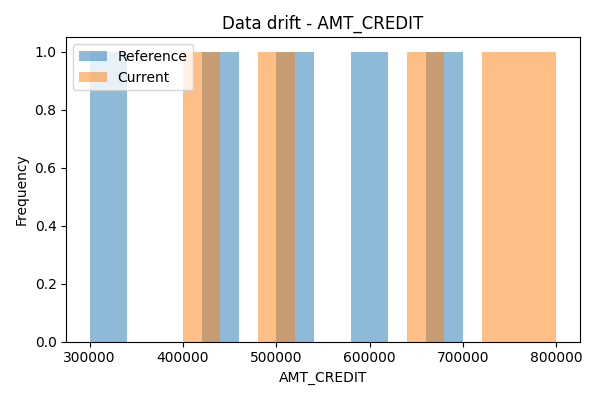
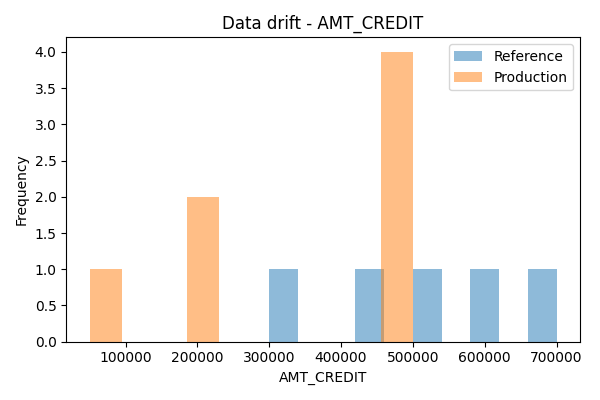
Finalize step 2 documentation and drift monitoring

diff --git a/src/monitoring/analyze_logs.py b/src/monitoring/analyze_logs.py
@@ -5,54 +5,76 @@ import pandas as pd
 import matplotlib.pyplot as plt
 
 BASE_DIR = Path(__file__).resolve().parents[2]
-
 LOG_FILE = BASE_DIR / "logs" / "predictions.jsonl"
 REPORT_DIR = BASE_DIR / "reports"
 
 REPORT_DIR.mkdir(exist_ok=True)
 
-# Lecture des logs JSONL
 logs = []
 
 with open(LOG_FILE, "r", encoding="utf-8") as f:
     for line in f:
         logs.append(json.loads(line))
 
-df = pd.DataFrame(logs)
+df_raw = pd.DataFrame(logs)
+
+# Compatible ancien format + nouveau format structuré
+if "output" in df_raw.columns:
+    df = pd.DataFrame({
+        "timestamp": df_raw["timestamp"],
+        "source": df_raw.get("source", "api"),
+        "model_name": df_raw.get("model_name", "unknown"),
+        "model_version": df_raw.get("model_version", "unknown"),
+        "status": df_raw.get("status", "unknown"),
+        "latency_ms": df_raw.get("latency_ms", None),
+        "probability": df_raw["output"].apply(lambda x: x["probability"]),
+        "prediction": df_raw["output"].apply(lambda x: x["prediction"]),
+        "threshold": df_raw["output"].apply(lambda x: x["threshold"]),
+    })
+else:
+    df = df_raw.copy()
+
+df["timestamp"] = pd.to_datetime(df["timestamp"])
+df["probability"] = df["probability"].astype(float)
+df["prediction"] = df["prediction"].astype(int)
 
 print("Nombre de prédictions :", len(df))
-
-# Extraire les probabilités
-df["probability"] = df["probability"].astype(float)
-
-# Statistiques
 print(df["probability"].describe())
 
-# Taux de refus
 refusal_rate = df["prediction"].mean()
-
 print(f"Taux de refus : {refusal_rate:.2%}")
 
-# Histogramme des probabilités
+if "latency_ms" in df.columns and df["latency_ms"].notna().any():
+    print("Latence moyenne :", round(df["latency_ms"].mean(), 2), "ms")
+
+# Distribution des probabilités
 plt.figure(figsize=(8, 5))
-
 plt.hist(df["probability"], bins=10)
-
 plt.title("Distribution des probabilités de défaut")
 plt.xlabel("Probabilité")
 plt.ylabel("Nombre de prédictions")
-
+plt.tight_layout()
 plt.savefig(REPORT_DIR / "probability_distribution.png")
+plt.close()
 
-print("Rapport généré dans reports/")
+# Evolution temporelle
+plt.figure(figsize=(8, 5))
+df_sorted = df.sort_values("timestamp")
+plt.plot(df_sorted["timestamp"], df_sorted["probability"], marker="o")
+plt.title("Evolution des scores dans le temps")
+plt.xlabel("Timestamp")
+plt.ylabel("Probabilité")
+plt.xticks(rotation=45)
+plt.tight_layout()
+plt.savefig(REPORT_DIR / "score_over_time.png")
+plt.close()
 
 # Détection simple d'anomalies
-
-high_risk = df[df["probability"] > 0.95]
-
-if len(high_risk) > 0:
-    print("\nALERTE : prédictions à très haut risque détectées")
-    print(high_risk[["probability", "prediction"]])
-
 if refusal_rate > 0.8:
     print("\nALERTE : taux de refus très élevé")
+
+if "latency_ms" in df.columns and df["latency_ms"].notna().any():
+    if df["latency_ms"].mean() > 1000:
+        print("\nALERTE : latence moyenne élevée")
+
+print("Rapports générés dans reports/")

diff --git a/src/monitoring/data_drift.py b/src/monitoring/data_drift.py
@@ -1,25 +1,38 @@
-import pandas as pd
-import matplotlib.pyplot as plt
+import json
 from pathlib import Path
 
-REPORT_DIR = Path("reports")
+import pandas as pd
+import matplotlib.pyplot as plt
+
+BASE_DIR = Path(__file__).resolve().parents[2]
+LOG_FILE = BASE_DIR / "logs" / "predictions.jsonl"
+REPORT_DIR = BASE_DIR / "reports"
 REPORT_DIR.mkdir(exist_ok=True)
 
-# Exemple : comparaison entre données de référence et données récentes simulées
+# Données de référence simulées
 reference_data = pd.DataFrame({
     "AMT_CREDIT": [500000, 300000, 700000, 450000, 600000],
     "AMT_INCOME_TOTAL": [200000, 150000, 250000, 180000, 220000],
 })
 
-current_data = pd.DataFrame({
-    "AMT_CREDIT": [650000, 400000, 800000, 500000, 750000],
-    "AMT_INCOME_TOTAL": [180000, 130000, 210000, 160000, 190000],
-})
+# Données de production depuis les logs API
+logs = []
+with open(LOG_FILE, "r", encoding="utf-8") as f:
+    for line in f:
+        logs.append(json.loads(line))
 
-for column in reference_data.columns:
+prod_rows = []
+for log in logs:
+    prod_rows.append(log["input"])
+
+current_data = pd.DataFrame(prod_rows)
+
+common_columns = [col for col in reference_data.columns if col in current_data.columns]
+
+for column in common_columns:
     plt.figure(figsize=(6, 4))
     plt.hist(reference_data[column], alpha=0.5, label="Reference")
-    plt.hist(current_data[column], alpha=0.5, label="Current")
+    plt.hist(current_data[column], alpha=0.5, label="Production")
     plt.title(f"Data drift - {column}")
     plt.xlabel(column)
     plt.ylabel("Frequency")
@@ -27,5 +40,22 @@ for column in reference_data.columns:
     plt.tight_layout()
     plt.savefig(REPORT_DIR / f"drift_{column}.png")
     plt.close()
+
+print("===== Drift Analysis =====")
+
+for col in common_columns:
+    train_mean = reference_data[col].mean()
+    prod_mean = current_data[col].mean()
+    drift = abs(prod_mean - train_mean)
+
+    print(
+        f"{col}: "
+        f"reference={train_mean:.2f} "
+        f"production={prod_mean:.2f} "
+        f"drift={drift:.2f}"
+    )
+
+    if drift > reference_data[col].std():
+        print(f"ALERTE DRIFT : {col}")
 
 print("Data drift reports generated in reports/")

diff --git a/src/api/main.py b/src/api/main.py
@@ -2,6 +2,7 @@ from pathlib import Path
 from typing import Dict, Any
 import os
 import json
+import time
 from datetime import datetime
 
 import joblib
@@ -39,6 +40,8 @@ def health():
 def predict(data: Dict[str, Any], x_api_key: str = Header(None)):
     if x_api_key != API_KEY:
         raise HTTPException(status_code=401, detail="Invalid or missing API key")
+        
+    start_time = time.time()
 
     try:
         if not data:
@@ -86,13 +89,22 @@ def predict(data: Dict[str, Any], x_api_key: str = Header(None)):
         probability = float(model.predict_proba(df)[:, 1][0])
         prediction = int(probability >= THRESHOLD)
 
+        latency_ms = round((time.time() - start_time) * 1000, 2)
+
         log_entry = {
             "timestamp": str(datetime.now()),
-            "input": data,
+        "source": "api",
+        "model_name": "LightGBM",
+        "model_version": "1.0",
+        "status": "success",
+        "latency_ms": latency_ms,
+        "input": data,
+        "output": {
             "probability": probability,
             "prediction": prediction,
-            "threshold": THRESHOLD,
-        }
+            "threshold": THRESHOLD
+    }
+}
 
         with open(LOG_DIR / "predictions.jsonl", "a", encoding="utf-8") as f:
             f.write(json.dumps(log_entry) + "\n")

diff --git a/README.md b/README.md
@@ -46,6 +46,22 @@ La route `/health` permet également de vérifier rapidement que l’API est dis
 
 L’API enregistre chaque prédiction dans un fichier de logs structuré au format JSONL :
 
+### Détection de dérive des données
+
+### Points de vigilance
+
+- Les données de production doivent être conservées selon les règles RGPD.
+- Les informations personnelles sensibles doivent être anonymisées.
+- Le volume des logs doit être surveillé afin d'éviter une croissance excessive des coûts de stockage.
+- Une référence stable est nécessaire pour interpréter correctement la dérive des données.
+
+Le script :
+
+```bash
+python src/monitoring/data_drift.py
+
+
+
 ```bash
 logs/predictions.jsonl
 
